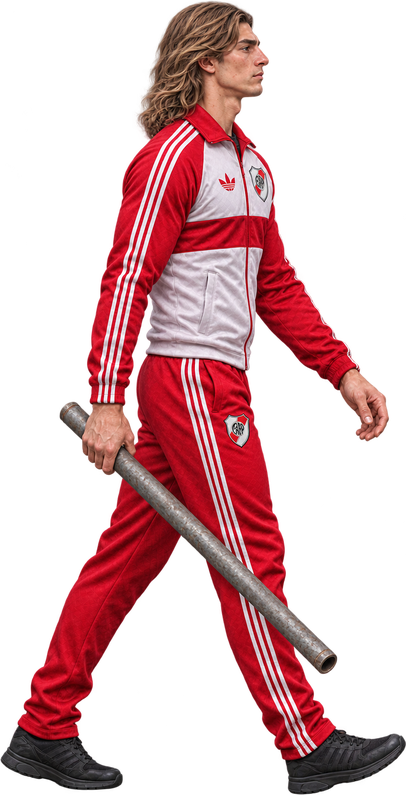
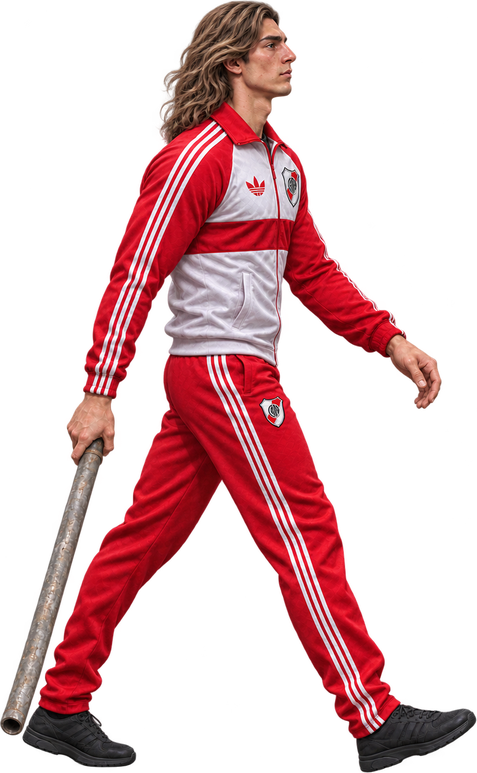
v226: El Tano y EL FLACO — caminata lateral v2 con pie de apoyo fijo, cuadros de extensión (prueba), escala y contacto
- Caminata v2: El Tano derecha+izquierda, EL FLACO derecha (la v2 izquierda del Flaco no pasa: 4 de 6 cuadros miran a la derecha).
- Raíz en el pie: cada cuadro dura lo que el pie apoyado retrocede; el pie no patina.
- Extensión del micrófono (izquierda) y del caño (izq/der) entre anticipación y recuperación del arco lateral.
- Franja de impacto por secuencia y lado; profundidad igual que antes; el PNG no define el área.
- Sus cuadros van a tamaño completo: se excluyen de la compensación de media escala (antes se dibujaban al doble y con los pies bajo la sombra).

Claude-Session: https://claude.ai/code/session_01UBr8iwEGMpDd9N1ggVrmjK

diff --git a/js/sprites_enemigos.js b/js/sprites_enemigos.js
@@ -616,23 +616,24 @@ window.SPRITES_ENEMIGOS.pimpi_jefe = {"frames":{"guardiaDer":{"src":"assets/refe
 // PENDIENTE (no se integra): El Tano arco ascendente (la «recuperación» es una hoja de 15 figuras); EL FLACO ataques a la izquierda (mezclan
 // vistas de frente y perfil); PATOVA arco lateral (la «continuación» está rota) y ascendente (faltan continuación y recuperación) → no ataca;
 // VIKINGO ataques a la izquierda (solo 2 de 4 cuadros). Guardias de frente/espalda: entregadas, el motor todavía no las usa.
-// El Tano (micrófono con pie)
+// El Tano (micrófono con pie) — v226: caminata lateral v2 (derecha e izquierda, 6 cuadros c/u) con PIVOTE EN EL PIE DE APOYO (raiz) y
+// cuadro de extensión hacia la izquierda (ext_izq, PRUEBA). Hacia la izquierda: anticipación y recuperación espejadas (pendientes las propias).
 window.SPRITES_ENEMIGOS.el_tano = {
   frames: {
     guardia: {"src": "assets/enemigos/especiales/barras_river/el_tano/guardia.webp", "mira": "der", "ref": 800, "pie": 801.9, "ancla": 64.7, "otroLado": "guardia_izq"},
     guardia_izq: {"src": "assets/enemigos/especiales/barras_river/el_tano/guardia_izq.webp", "mira": "izq", "ref": 800, "pie": 800.0, "ancla": 143.2},
-    cam_derecha_01: {"src": "assets/enemigos/especiales/barras_river/el_tano/cam_derecha_01.webp", "mira": "der", "ref": 800, "pie": 791.9, "ancla": 145.6},
-    cam_derecha_02: {"src": "assets/enemigos/especiales/barras_river/el_tano/cam_derecha_02.webp", "mira": "der", "ref": 800, "pie": 793.3, "ancla": 174.7},
-    cam_derecha_03: {"src": "assets/enemigos/especiales/barras_river/el_tano/cam_derecha_03.webp", "mira": "der", "ref": 800, "pie": 793.3, "ancla": 111.4},
-    cam_derecha_04: {"src": "assets/enemigos/especiales/barras_river/el_tano/cam_derecha_04.webp", "mira": "der", "ref": 800, "pie": 792.4, "ancla": 144.7},
-    cam_derecha_05: {"src": "assets/enemigos/especiales/barras_river/el_tano/cam_derecha_05.webp", "mira": "der", "ref": 800, "pie": 778.1, "ancla": 176.6},
-    cam_derecha_06: {"src": "assets/enemigos/especiales/barras_river/el_tano/cam_derecha_06.webp", "mira": "der", "ref": 800, "pie": 769.5, "ancla": 166.1},
-    cam_izquierda_01: {"src": "assets/enemigos/especiales/barras_river/el_tano/cam_izquierda_01.webp", "mira": "izq", "ref": 800, "pie": 788.1, "ancla": 209.9},
-    cam_izquierda_02: {"src": "assets/enemigos/especiales/barras_river/el_tano/cam_izquierda_02.webp", "mira": "izq", "ref": 800, "pie": 792.9, "ancla": 157.5},
-    cam_izquierda_03: {"src": "assets/enemigos/especiales/barras_river/el_tano/cam_izquierda_03.webp", "mira": "izq", "ref": 800, "pie": 782.9, "ancla": 172.8},
-    cam_izquierda_04: {"src": "assets/enemigos/especiales/barras_river/el_tano/cam_izquierda_04.webp", "mira": "izq", "ref": 800, "pie": 780.0, "ancla": 217.0},
-    cam_izquierda_05: {"src": "assets/enemigos/especiales/barras_river/el_tano/cam_izquierda_05.webp", "mira": "izq", "ref": 800, "pie": 781.4, "ancla": 181.8},
-    cam_izquierda_06: {"src": "assets/enemigos/especiales/barras_river/el_tano/cam_izquierda_06.webp", "mira": "izq", "ref": 800, "pie": 784.8, "ancla": 159.9},
+    cam_derecha_01: {"src": "assets/enemigos/especiales/barras_river/el_tano/cam_derecha_01.webp", "mira": "der", "ref": 800, "pie": 780.0, "ancla": 176.5},
+    cam_derecha_02: {"src": "assets/enemigos/especiales/barras_river/el_tano/cam_derecha_02.webp", "mira": "der", "ref": 800, "pie": 799.5, "ancla": 169.4},
+    cam_derecha_03: {"src": "assets/enemigos/especiales/barras_river/el_tano/cam_derecha_03.webp", "mira": "der", "ref": 800, "pie": 792.4, "ancla": 152.3},
+    cam_derecha_04: {"src": "assets/enemigos/especiales/barras_river/el_tano/cam_derecha_04.webp", "mira": "der", "ref": 800, "pie": 715.0, "ancla": 240.4},
+    cam_derecha_05: {"src": "assets/enemigos/especiales/barras_river/el_tano/cam_derecha_05.webp", "mira": "der", "ref": 800, "pie": 786.7, "ancla": 188.0},
+    cam_derecha_06: {"src": "assets/enemigos/especiales/barras_river/el_tano/cam_derecha_06.webp", "mira": "der", "ref": 800, "pie": 771.4, "ancla": 107.5},
+    cam_izquierda_01: {"src": "assets/enemigos/especiales/barras_river/el_tano/cam_izquierda_01.webp", "mira": "izq", "ref": 800, "pie": 774.8, "ancla": 200.8},
+    cam_izquierda_02: {"src": "assets/enemigos/especiales/barras_river/el_tano/cam_izquierda_02.webp", "mira": "izq", "ref": 800, "pie": 798.6, "ancla": 181.7},
+    cam_izquierda_03: {"src": "assets/enemigos/especiales/barras_river/el_tano/cam_izquierda_03.webp", "mira": "izq", "ref": 800, "pie": 778.1, "ancla": 160.8},
+    cam_izquierda_04: {"src": "assets/enemigos/especiales/barras_river/el_tano/cam_izquierda_04.webp", "mira": "izq", "ref": 800, "pie": 700.8, "ancla": 258.9},
+    cam_izquierda_05: {"src": "assets/enemigos/especiales/barras_river/el_tano/cam_izquierda_05.webp", "mira": "izq", "ref": 800, "pie": 802.4, "ancla": 187.5},
+    cam_izquierda_06: {"src": "assets/enemigos/especiales/barras_river/el_tano/cam_izquierda_06.webp", "mira": "izq", "ref": 800, "pie": 791.0, "ancla": 196.0},
     cam_frente_01: {"src": "assets/enemigos/especiales/barras_river/el_tano/cam_frente_01.webp", "mira": "frente", "ref": 800, "pie": 798.6, "ancla": 138.0},
     cam_frente_02: {"src": "assets/enemigos/especiales/barras_river/el_tano/cam_frente_02.webp", "mira": "frente", "ref": 800, "pie": 803.8, "ancla": 140.4},
     cam_frente_03: {"src": "assets/enemigos/especiales/barras_river/el_tano/cam_frente_03.webp", "mira": "frente", "ref": 800, "pie": 798.6, "ancla": 136.1},
@@ -653,10 +654,11 @@ window.SPRITES_ENEMIGOS.el_tano = {
     caida: {"src": "assets/enemigos/especiales/barras_river/el_tano/caida.webp", "mira": "der", "ref": 800, "pie": 633.0, "ancla": 195.6},
     levantarse: {"src": "assets/enemigos/especiales/barras_river/el_tano/levantarse.webp", "mira": "frente", "ref": 800, "pie": 715.8, "ancla": 154.7},
     derrota: {"src": "assets/enemigos/especiales/barras_river/el_tano/derrota.webp", "mira": "der", "ref": 913.1, "pie": 287.9, "ancla": 471.6, "acostado": true},
-    lateral_anticipacion: {"src": "assets/enemigos/especiales/barras_river/el_tano/lateral_anticipacion.webp", "mira": "der", "ref": 800, "pie": 798.6, "ancla": 86.6},
-    lateral_efecto: {"src": "assets/enemigos/especiales/barras_river/el_tano/lateral_efecto.webp", "mira": "der", "ref": 800, "pie": 801.4, "ancla": 62.3},
-    lateral_continuacion: {"src": "assets/enemigos/especiales/barras_river/el_tano/lateral_continuacion.webp", "mira": "der", "ref": 800, "pie": 806.7, "ancla": 63.8},
-    lateral_recuperacion: {"src": "assets/enemigos/especiales/barras_river/el_tano/lateral_recuperacion.webp", "mira": "der", "ref": 800, "pie": 794.3, "ancla": 62.3}
+    lateral_anticipacion: {"src": "assets/enemigos/especiales/barras_river/el_tano/lateral_anticipacion.webp", "mira": "der", "ref": 800, "pie": 799.0, "ancla": 74.7},
+    lateral_efecto: {"src": "assets/enemigos/especiales/barras_river/el_tano/lateral_efecto.webp", "mira": "der", "ref": 800, "pie": 801.9, "ancla": 55.4},
+    lateral_continuacion: {"src": "assets/enemigos/especiales/barras_river/el_tano/lateral_continuacion.webp", "mira": "der", "ref": 800, "pie": 807.1, "ancla": 42.1},
+    lateral_recuperacion: {"src": "assets/enemigos/especiales/barras_river/el_tano/lateral_recuperacion.webp", "mira": "der", "ref": 800, "pie": 794.3, "ancla": 54.0},
+    ext_izq: {"src": "assets/enemigos/especiales/barras_river/el_tano/ext_izq.webp", "mira": "izq", "ref": 800, "pie": 647.0, "ancla": 561.2, "prueba": true}
   },
   anim: {
     quieto: 'guardia',
@@ -665,21 +667,27 @@ window.SPRITES_ENEMIGOS.el_tano = {
     bloqueo: { der: 'cubrirse_der', izq: 'cubrirse_izq' },
     dolores: ['recibe_golpe', 'recibe_cuerpo'], desequilibrio: ['tambalear', 'caida'], caida: 'caida',
     suelo: 'derrota', levantarse: 'levantarse', arrodillado: { der: 'levantarse', izq: 'levantarse' }, muerto: 'derrota',
-    secuencias: {"lateral": ["lateral_anticipacion", "lateral_efecto", "lateral_continuacion", "lateral_recuperacion"]}   // ataques con el objeto; el motor elige uno al azar en cada golpe
+    secuencias: {"lateral": {"der": ["lateral_anticipacion", "lateral_efecto", "lateral_continuacion", "lateral_recuperacion"], "izq": ["lateral_anticipacion", "ext_izq", "ext_izq", "lateral_recuperacion"]}}   // {der, izq}: cada lado con sus cuadros; un cuadro que mira al otro lado se espeja
   },
+  // v226 — caminata lateral con raíz en el pie: d = cuánto avanza el cuerpo (px a escala 1) mientras se ve cada cuadro = lo que el pie de
+  // apoyo retrocede respecto del cuerpo entre ese cuadro y el siguiente (medido en los dibujos). Así el pie apoyado no patina.
+  raiz: {"der": {"d": [14.7, 30.6, 113.4, 26.3, 83.7, 31.5], "total": 300.2}, "izq": {"d": [9.9, 17.7, 121.6, 23.7, 87.1, 38.4], "total": 298.4}},
   zancada: 34, zancadaLado: 38
 };
-// EL FLACO (caño de plomería)
+// EL FLACO (caño de plomería) — v226: caminata lateral v2 hacia la DERECHA con pivote en el pie de apoyo (raiz). La v2 hacia la izquierda
+// NO se usa: 4 de sus 6 cuadros (01, 03, 04 y 06) miran a la derecha → sigue la caminata izquierda anterior (pendiente).
+// Estocada con el caño (ext_der / ext_izq, PRUEBA) entre la anticipación y la recuperación del arco lateral. Una sola escala de cuerpo
+// (ref = alto de pie en 800 px) en guardia, caminata y ataque; el lienzo y el caño no cuentan. Anclas de los ataques = entre los pies.
 window.SPRITES_ENEMIGOS.el_flaco = {
   frames: {
     guardia: {"src": "assets/enemigos/especiales/barras_river/el_flaco/guardia.webp", "mira": "der", "ref": 800, "pie": 802.1, "ancla": 70.4, "otroLado": "guardia_izq"},
     guardia_izq: {"src": "assets/enemigos/especiales/barras_river/el_flaco/guardia_izq.webp", "mira": "izq", "ref": 800, "pie": 792.5, "ancla": 196.4},
-    cam_derecha_01: {"src": "assets/enemigos/especiales/barras_river/el_flaco/cam_derecha_01.webp", "mira": "der", "ref": 800, "pie": 791.5, "ancla": 178.8},
-    cam_derecha_02: {"src": "assets/enemigos/especiales/barras_river/el_flaco/cam_derecha_02.webp", "mira": "der", "ref": 800, "pie": 784.5, "ancla": 210.8},
-    cam_derecha_03: {"src": "assets/enemigos/especiales/barras_river/el_flaco/cam_derecha_03.webp", "mira": "der", "ref": 800, "pie": 787.2, "ancla": 153.7},
-    cam_derecha_04: {"src": "assets/enemigos/especiales/barras_river/el_flaco/cam_derecha_04.webp", "mira": "der", "ref": 800, "pie": 793.6, "ancla": 197.5},
-    cam_derecha_05: {"src": "assets/enemigos/especiales/barras_river/el_flaco/cam_derecha_05.webp", "mira": "der", "ref": 800, "pie": 779.7, "ancla": 210.3},
-    cam_derecha_06: {"src": "assets/enemigos/especiales/barras_river/el_flaco/cam_derecha_06.webp", "mira": "der", "ref": 800, "pie": 781.3, "ancla": 220.4},
+    cam_derecha_01: {"src": "assets/enemigos/especiales/barras_river/el_flaco/cam_derecha_01.webp", "mira": "der", "ref": 800, "pie": 774.5, "ancla": 238.2},
+    cam_derecha_02: {"src": "assets/enemigos/especiales/barras_river/el_flaco/cam_derecha_02.webp", "mira": "der", "ref": 800, "pie": 781.9, "ancla": 195.3},
+    cam_derecha_03: {"src": "assets/enemigos/especiales/barras_river/el_flaco/cam_derecha_03.webp", "mira": "der", "ref": 800, "pie": 792.0, "ancla": 139.8},
+    cam_derecha_04: {"src": "assets/enemigos/especiales/barras_river/el_flaco/cam_derecha_04.webp", "mira": "der", "ref": 800, "pie": 772.0, "ancla": 226.1},
+    cam_derecha_05: {"src": "assets/enemigos/especiales/barras_river/el_flaco/cam_derecha_05.webp", "mira": "der", "ref": 800, "pie": 774.9, "ancla": 210.2},
+    cam_derecha_06: {"src": "assets/enemigos/especiales/barras_river/el_flaco/cam_derecha_06.webp", "mira": "der", "ref": 800, "pie": 782.9, "ancla": 133.4},
     cam_izquierda_01: {"src": "assets/enemigos/especiales/barras_river/el_flaco/cam_izquierda_01.webp", "mira": "izq", "ref": 800, "pie": 788.8, "ancla": 243.9},
     cam_izquierda_02: {"src": "assets/enemigos/especiales/barras_river/el_flaco/cam_izquierda_02.webp", "mira": "izq", "ref": 800, "pie": 787.7, "ancla": 239.6},
     cam_izquierda_03: {"src": "assets/enemigos/especiales/barras_river/el_flaco/cam_izquierda_03.webp", "mira": "izq", "ref": 800, "pie": 785.6, "ancla": 212.9},
@@ -705,15 +713,17 @@ window.SPRITES_ENEMIGOS.el_flaco = {
     tambalear: {"src": "assets/enemigos/especiales/barras_river/el_flaco/tambalear.webp", "mira": "der", "ref": 800, "pie": 780.8, "ancla": 235.4},
     caida: {"src": "assets/enemigos/especiales/barras_river/el_flaco/caida.webp", "mira": "der", "ref": 800, "pie": 541.7, "ancla": 333.6},
     levantarse: {"src": "assets/enemigos/especiales/barras_river/el_flaco/levantarse.webp", "mira": "der", "ref": 800, "pie": 707.7, "ancla": 187.3},
-    derrota: {"src": "assets/enemigos/especiales/barras_river/el_flaco/derrota.webp", "mira": "der", "ref": 1061.2, "pie": 307.9, "ancla": 549.2, "acostado": true},
-    lateral_anticipacion: {"src": "assets/enemigos/especiales/barras_river/el_flaco/lateral_anticipacion.webp", "mira": "der", "ref": 800, "pie": 809.6, "ancla": 95.5},
-    lateral_efecto: {"src": "assets/enemigos/especiales/barras_river/el_flaco/lateral_efecto.webp", "mira": "der", "ref": 800, "pie": 803.7, "ancla": 81.1},
-    lateral_continuacion: {"src": "assets/enemigos/especiales/barras_river/el_flaco/lateral_continuacion.webp", "mira": "der", "ref": 800, "pie": 798.4, "ancla": 147.3},
-    lateral_recuperacion: {"src": "assets/enemigos/especiales/barras_river/el_flaco/lateral_recuperacion.webp", "mira": "der", "ref": 800, "pie": 798.4, "ancla": 124.9},
-    ascendente_anticipacion: {"src": "assets/enemigos/especiales/barras_river/el_flaco/ascendente_anticipacion.webp", "mira": "der", "ref": 800, "pie": 804.3, "ancla": 163.8},
-    ascendente_efecto: {"src": "assets/enemigos/especiales/barras_river/el_flaco/ascendente_efecto.webp", "mira": "der", "ref": 800, "pie": 800.0, "ancla": 109.4},
-    ascendente_continuacion: {"src": "assets/enemigos/especiales/barras_river/el_flaco/ascendente_continuacion.webp", "mira": "der", "ref": 800, "pie": 813.9, "ancla": 89.1},
-    ascendente_recuperacion: {"src": "assets/enemigos/especiales/barras_river/el_flaco/ascendente_recuperacion.webp", "mira": "der", "ref": 800, "pie": 804.8, "ancla": 233.8}
+    derrota: {"src": "assets/enemigos/especiales/barras_river/el_flaco/derrota.webp", "mira": "der", "ref": 1055.5, "pie": 307.9, "ancla": 549.2, "acostado": true},
+    lateral_anticipacion: {"src": "assets/enemigos/especiales/barras_river/el_flaco/lateral_anticipacion.webp", "mira": "der", "ref": 800, "pie": 810.1, "ancla": 79.7},
+    lateral_efecto: {"src": "assets/enemigos/especiales/barras_river/el_flaco/lateral_efecto.webp", "mira": "der", "ref": 800, "pie": 804.3, "ancla": 79.7},
+    lateral_continuacion: {"src": "assets/enemigos/especiales/barras_river/el_flaco/lateral_continuacion.webp", "mira": "der", "ref": 800, "pie": 798.9, "ancla": 135.0},
+    lateral_recuperacion: {"src": "assets/enemigos/especiales/barras_river/el_flaco/lateral_recuperacion.webp", "mira": "der", "ref": 800, "pie": 798.9, "ancla": 127.5},
+    ascendente_anticipacion: {"src": "assets/enemigos/especiales/barras_river/el_flaco/ascendente_anticipacion.webp", "mira": "der", "ref": 800, "pie": 804.8, "ancla": 123.5},
+    ascendente_efecto: {"src": "assets/enemigos/especiales/barras_river/el_flaco/ascendente_efecto.webp", "mira": "der", "ref": 800, "pie": 800.5, "ancla": 79.7},
+    ascendente_continuacion: {"src": "assets/enemigos/especiales/barras_river/el_flaco/ascendente_continuacion.webp", "mira": "der", "ref": 800, "pie": 814.4, "ancla": 72.8},
+    ascendente_recuperacion: {"src": "assets/enemigos/especiales/barras_river/el_flaco/ascendente_recuperacion.webp", "mira": "der", "ref": 800, "pie": 805.3, "ancla": 212.9},
+    ext_der: {"src": "assets/enemigos/especiales/barras_river/el_flaco/ext_der.webp", "mira": "der", "ref": 800, "pie": 551.9, "ancla": 231.6, "prueba": true},
+    ext_izq: {"src": "assets/enemigos/especiales/barras_river/el_flaco/ext_izq.webp", "mira": "izq", "ref": 800, "pie": 625.7, "ancla": 664.3, "prueba": true}
   },
   anim: {
     quieto: 'guardia',
@@ -722,8 +732,11 @@ window.SPRITES_ENEMIGOS.el_flaco = {
     bloqueo: { der: 'cubrirse_der', izq: 'cubrirse_izq' },
     dolores: ['recibe_golpe', 'recibe_cuerpo'], desequilibrio: ['tambalear', 'caida'], caida: 'caida',
     suelo: 'derrota', levantarse: 'levantarse', arrodillado: { der: 'levantarse', izq: 'levantarse' }, muerto: 'derrota',
-    secuencias: {"lateral": ["lateral_anticipacion", "lateral_efecto", "lateral_continuacion", "lateral_recuperacion"], "ascendente": ["ascendente_anticipacion", "ascendente_efecto", "ascendente_continuacion", "ascendente_recuperacion"]}   // ataques con el objeto; el motor elige uno al azar en cada golpe
+    secuencias: {"lateral": ["lateral_anticipacion", "lateral_efecto", "lateral_continuacion", "lateral_recuperacion"], "ascendente": ["ascendente_anticipacion", "ascendente_efecto", "ascendente_continuacion", "ascendente_recuperacion"], "estocada": {"der": ["lateral_anticipacion", "ext_der", "ext_der", "lateral_recuperacion"], "izq": ["lateral_anticipacion", "ext_izq", "ext_izq", "lateral_recuperacion"]}}   // {der, izq}: cada lado con sus cuadros; un cuadro que mira al otro lado se espeja
   },
+  // v226 — caminata lateral con raíz en el pie: d = cuánto avanza el cuerpo (px a escala 1) mientras se ve cada cuadro = lo que el pie de
+  // apoyo retrocede respecto del cuerpo entre ese cuadro y el siguiente (medido en los dibujos). Así el pie apoyado no patina.
+  raiz: {"der": {"d": [11.6, 87.1, 50.0, 10.8, 99.6, 44.9], "total": 304.0}},
   zancada: 34, zancadaLado: 38
 };
 // PATOVA (cadena)

diff --git a/js/juego.js b/js/juego.js
@@ -34,6 +34,9 @@
   const VEL_ENEMIGO = 150;
   const PROF_GOLPE = 42;
   const SECUENCIA_ATAQUE = [0.22, 0.45];   // v225: s en 'golpear' hasta pasar de efecto → continuación → recuperación
+  // v226: franja de impacto (px a escala 1 delante del enemigo) de una secuencia, según hacia dónde mira. El tamaño del PNG no interviene.
+  const franjaSecu = (e, t) => { const A = e.luch.def.alcanceSecu && e.luch.def.alcanceSecu[t]; const b = A ? (Array.isArray(A) ? A : A[e.face < 0 ? 'izq' : 'der'] || A.der) : null; return b || e.franja[e.soloGolpe]; };
+  const franjasDe = e => { const SQ = ((window.SPRITES_ENEMIGOS || {})[e.luch.def.id] || {}).anim; return SQ && SQ.secuencias ? Object.keys(SQ.secuencias).map(t => franjaSecu(e, t)) : [e.franja[e.soloGolpe]]; };
   const EXTRA_AVISO_N1_4 = 0.6;          // v195: «!» de los barras en los niveles 1 a 4 = 0,40 + 0,60 = 1,00 s (v71: +2,0 · v193: +1,6)
   const PREP_MAX = 2.0;                  // v193: tope de la preparación visible («!» → golpe) de cualquier enemigo, en s de juego activo
   const FACTOR_CAMINATA_BARRAS = 0.85;   // v193: barras comunes caminan al 85 % (150 → 127,5 px/s). Una sola vez, al crear el enemigo
@@ -95,7 +98,7 @@
      (ref, pie, ancla, cajas) siguen en píxeles del ORIGINAL: anW/anH devuelven el tamaño original equivalente. Sin ese
      archivo (versión local) la escala es 1 y nada cambia. */
   const EA = window.ESCALA_ARTE || null;
-  const escalaArte = src => EA && EA.carpetas.some(c => src.startsWith(c)) ? EA.k : 1;
+  const escalaArte = src => EA && EA.carpetas.some(c => src.startsWith(c)) && !(EA.enteras || []).some(c => src.startsWith(c)) ? EA.k : 1;   // v226: + enteras
   const SUFIJO_ARTE = EA && EA.version ? `?v=${EA.version}` : '';   // versión web: las copias livianas no se confunden con imágenes viejas en caché
   const anW = im => im.naturalWidth / (im._k || 1), anH = im => im.naturalHeight / (im._k || 1);
   const CARGA = { concurrencia: 6, concurrenciaBaja: 2, tiempoMax: 25000, reintentos: 1 };
@@ -1077,7 +1080,7 @@
         e.st = 'golpear'; e.t = 0;
         const alc = alcanceEnemigo(e, e.golpe, e.var) * s * (e.jefe ? 1.1 : 1);   // v83: alcance de la variante (A/B) que se dibuja
         // v34: con franja propia (escobazo) conecta solo si el jugador está donde llega la PAJA, delante de él
-        const fr = e.franja && e.franja[e.golpe], dxF = (p.x - e.x) * e.face;
+        const fr = e.secu ? franjaSecu(e, e.secu) : e.franja && e.franja[e.golpe], dxF = (p.x - e.x) * e.face;   // v226: la del golpe que se está dibujando
         const llega = fr ? dxF >= fr[0] * s && dxF <= fr[1] * s : Math.abs(p.x - e.x) < alc && (p.x - e.x) * e.face > 0;
         // v194: registro de cada ataque (aviso → golpe = contacto: el daño se aplica en este mismo cuadro). Pruebas / diagnóstico.
         registroAtaques.push({ id: e.luch.def.id, aviso: e.prepHechas[e.prepHechas.length - 1], llega: !!(llega && Math.abs(p.y - e.y) < PROF_GOLPE * factorProf(e.y)), dx: Math.round(Math.abs(p.x - e.x) / s), dy: Math.round(Math.abs(p.y - e.y)), t: +tiempo.toFixed(2), golpe: e.golpe, alc: Math.round(alc / s), frente: (p.x - e.x) * e.face > 0 });
@@ -1200,11 +1203,13 @@
     } else
     if (e.soloGolpe) {
       // v34: GORDO ESCOBA — un solo ataque (escobazo). Lo larga cuando el jugador queda dentro de la franja de la paja.
-      const fr = e.franja[e.soloGolpe], dxF = (p.x - e.x) * e.face;
-      if (e.ficha && !e.sinAtaque && p.st !== 'ko' && Math.abs(p.y - e.y) < PROF_GOLPE * factorProf(e.y) && dxF >= (fr[0] + 20) * s && dxF <= (fr[1] - 20) * s && e.enfriar <= 0) {
+      const dxF = (p.x - e.x) * e.face, alguna = franjasDe(e).some(fr => dxF >= (fr[0] + 20) * s && dxF <= (fr[1] - 20) * s);
+      if (e.ficha && !e.sinAtaque && p.st !== 'ko' && Math.abs(p.y - e.y) < PROF_GOLPE * factorProf(e.y) && alguna && e.enfriar <= 0) {
         e.golpe = e.soloGolpe; e.st = 'preparar'; e.t = inicioAviso(e);
         // v225: barras especiales de River — cada ataque es UNA secuencia completa con su objeto (lateral / ascendente), elegida al azar
-        const SQ = ((window.SPRITES_ENEMIGOS || {})[e.luch.def.id] || {}).anim; const tipos = SQ && SQ.secuencias ? Object.keys(SQ.secuencias) : [];
+        const SQ = ((window.SPRITES_ENEMIGOS || {})[e.luch.def.id] || {}).anim;
+        // v226: solo las secuencias cuyo objeto LLEGA a la distancia actual (franja propia por secuencia y lado, js/niveles.js → alcanceSecu)
+        const tipos = SQ && SQ.secuencias ? Object.keys(SQ.secuencias).filter(t => { const b = franjaSecu(e, t); return dxF >= (b[0] + 20) * s && dxF <= (b[1] - 20) * s; }) : [];
         e.secu = tipos.length ? tipos[Math.floor(Math.random() * tipos.length)] : null;
       }
     } else
@@ -1221,6 +1226,7 @@
     andar8(e, e.x - x0, e.y - y0, dt);                         // v192: caminata en 8 direcciones (solo River 1–4)
     vigilarTurno(e, p, s, dt, Math.hypot(e.x - x0, e.y - y0), dd, paso);   // v194: progreso real con el turno tomado
     e.recorrido += Math.hypot(e.x - x0, e.y - y0);            // los pasos avanzan con lo que camina
+    e.avanceLat = (e.avanceLat || 0) + (e.x - x0) * e.face / escalaEn(e.y);   // v226: avance de costado hacia donde mira (px a escala 1; atrás = negativo)
     if (Math.hypot(e.x - x0, e.y - y0) > 0.01) { e.mx = e.x - x0; e.my = e.y - y0;   // hacia dónde camina (para elegir paso de costado / de frente / de espaldas)
       // v92: tramo = distancia desde que ARRANCÓ a caminar (si estuvo más de 0,15 s sin moverse, empieza otro tramo: transición 02 → 03)
       if (e.ultMov == null || tiempo - e.ultMov > 0.15) e.tramo = 0;
@@ -1987,6 +1993,7 @@
     return L[((i + off) % 8 + 8) % 8];
   }
   function poseEnemigo(e, D, A) {
+    e.rmOff = 0;
     const an = { ...D.anim, dolor: D.anim.dolor || D.anim.quieto }, lado = e.face < 0 ? 'izq' : 'der';
     if (an.dolores) an.dolor = an.dolores[(e.nDolor || 0) % an.dolores.length];   // v55: reacción a / b / c según el golpe
     // v55: cayendo = desequilibrio a → b (si existe); si no, la pose de caída de siempre. frac = avance dentro de la caída (0…1)
@@ -2007,7 +2014,7 @@
     if (e.st === 'defensa' && an.bloqueo && protegeEnemigo(e) && bloqueoCargadoEne(A)) return an.bloqueo[lado];   // v24: brazos cruzados mientras protege (al subir/bajar la guardia, la guardia)
     if (e.st === 'dolor' || e.st === 'agarrado') return an.dolor;
     // v225: secuencia de ataque con objeto (anticipación → efecto → continuación → recuperación). El daño entra con el efecto.
-    const sq = an.secuencias && (an.secuencias[e.secu] || Object.values(an.secuencias)[0]);
+    const sq0 = an.secuencias && (an.secuencias[e.secu] || Object.values(an.secuencias)[0]), sq = sq0 && !Array.isArray(sq0) ? sq0[lado] : sq0;   // v226: {der, izq}
     if (sq && e.st === 'preparar') return sq[0];
     if (sq && e.st === 'golpear') return e.t < SECUENCIA_ATAQUE[0] ? sq[1] : e.t < SECUENCIA_ATAQUE[1] ? sq[2] : sq[3];
     if (e.st === 'preparar' && an.preparar && an.preparar[e.golpe]) return an.preparar[e.golpe];   // v32: policía levanta el palo antes del palazo
@@ -2029,6 +2036,14 @@
         if (i < an.caminaEntrada.length) return an.caminaEntrada[i];
         return lista[(i - an.caminaEntrada.length) % lista.length];
       }
+      // v226 — RAÍZ EN EL PIE (El Tano / EL FLACO): cada cuadro dura lo que el pie apoyado retrocede hasta el cuadro siguiente; mientras se ve,
+      // el dibujo queda quieto en el piso (rmOff lo corre hacia atrás lo que ya avanzó la posición lógica) → el pie no patina.
+      const RZ = D.raiz && (lista === an.caminaDer ? D.raiz.der : lista === an.caminaIzq ? D.raiz.izq : null);
+      if (RZ) {
+        const pos = (((e.avanceLat || 0) % RZ.total) + RZ.total) % RZ.total; let i = 0, c = 0;
+        while (i < RZ.d.length - 1 && pos >= c + RZ.d[i]) { c += RZ.d[i]; i++; }
+        e.rmOff = pos - c - RZ.total / (2 * RZ.d.length); e.rmCuadro = i; return lista[i];   // desfase CONSTANTE: entre cuadros el dibujo salta justo d
+      }
       const nom = lista === an.caminaAbajo ? 'caminaAbajo' : lista === an.caminaArriba ? 'caminaArriba' : lista === an.caminaIzq ? 'caminaIzq' : 'caminaDer', ms = msPaso(D, nom);
       if (ms) return lista[Math.floor((e.relojPaso || 0) * 1000 / ms) % lista.length];   // v93: por tiempo (El Gallego de frente)
       return lista[Math.floor(e.recorrido / (z * escalaEn(e.y))) % lista.length];
@@ -2049,6 +2064,7 @@
     const s = escalaEn(e.y), k = ALTO_PERSONAJE * s / m.ref;
     let dx = 0, rot = 0;
     if (e.st === 'preparar') dx = -8 * s * Math.min(1, e.t / 0.15);   // se echa atrás: se ve venir el golpe
+    if (e.rmOff) dx -= e.rmOff * s;                                   // v226: raíz en el pie (caminata de costado)
     if (!A.def.anim.dolor && id === A.def.anim.quieto && (e.st === 'dolor' || e.st === 'agarrado' || (e.st === 'ko' && e.t < KO_ANIM.reaccion)))
       { dx = -8 * s; rot = -0.06; }                                   // v26: golpe recibido provisorio (guardia inclinada, sin redibujar)
     sombra(e, s, alpha, m.acostado ? 150 : 70);

diff --git a/js/niveles.js b/js/niveles.js
@@ -225,9 +225,11 @@
     // medida en el cuadro de efecto hasta la punta del objeto. Cuadros en js/sprites_enemigos.js. PATOVA: sinAtaque hasta que llegue
     // una secuencia de cadena completa (la lateral tiene la «continuación» rota y la ascendente solo 2 de 4 cuadros).
     el_tano:           { id: 'el_tano', tipo: 'barra_river_especial', nombre: 'El Tano', especial: true, sprite: null, mira: 1,
-                         soloGolpe: 'pina', nombreGolpe: 'Golpe de micrófono', alcance: { pina: [40, 150] }, distancia: 115 },
+                         soloGolpe: 'pina', nombreGolpe: 'Golpe de micrófono', alcance: { pina: [40, 150] }, distancia: 115,
+                         alcanceSecu: { lateral: { der: [40, 150], izq: [60, 240] } } },   // v226: hacia la izquierda, el brazo extendido (punta del micrófono ≈ 242)
     el_flaco:          { id: 'el_flaco', tipo: 'barra_river_especial', nombre: 'EL FLACO', especial: true, sprite: null, mira: 1,
-                         soloGolpe: 'pina', nombreGolpe: 'Cañazo', alcance: { pina: [40, 170] }, distancia: 125 },
+                         soloGolpe: 'pina', nombreGolpe: 'Cañazo', alcance: { pina: [40, 170] }, distancia: 125,
+                         alcanceSecu: { lateral: [40, 180], ascendente: [40, 160], estocada: { der: [80, 305], izq: [80, 280] } } },   // v226: punta del caño medida en cada cuadro de impacto
     patova:            { id: 'patova', tipo: 'barra_river_especial', nombre: 'PATOVA', especial: true, sprite: null, mira: 1,
                          soloGolpe: 'pina', nombreGolpe: 'Cadenazo', sinAtaque: true, alcance: { pina: [40, 160] }, distancia: 120 },
     vikingo:           { id: 'vikingo', tipo: 'barra_river_especial', nombre: 'VIKINGO', especial: true, sprite: null, mira: 1,

diff --git a/juego.html b/juego.html
@@ -18,11 +18,11 @@
   <script src="js/identidad.js?v=168"></script>
   <script src="js/reglas_combate.js?v=168"></script>
   <script src="js/combate.js?v=168"></script>
-  <script src="js/niveles.js?v=225"></script>
+  <script src="js/niveles.js?v=226"></script>
   <script src="js/defensa.js?v=168"></script>
   <script src="js/cajas_arte.js?v=168"></script>
   <script src="js/sprites_referentes.js?v=168"></script>
-  <script src="js/sprites_enemigos.js?v=225"></script>
+  <script src="js/sprites_enemigos.js?v=226"></script>
   <script src="js/sprites_clubes.js?v=168"></script>
   <script src="js/atlas_clubes.js?v=224"></script>
   <script src="js/caminatas_river.js?v=193b"></script>
@@ -35,7 +35,7 @@
   <script src="js/damajuana.js?v=168"></script>
   <script src="js/campana.js?v=224"></script>
   <script src="js/perspectiva.js?v=168"></script>
-  <script src="js/escala_arte.js?v=168"></script>
-  <script src="js/juego.js?v=225"></script>
+  <script src="js/escala_arte.js?v=226"></script>
+  <script src="js/juego.js?v=226"></script>
 </body>
 </html>

diff --git a/batalla.html b/batalla.html
@@ -42,7 +42,7 @@
   <script src="js/defensa.js?v=168"></script>
   <script src="js/sprites_referentes.js?v=168"></script>
   <script src="js/sprites_pistola.js?v=168"></script>
-  <script src="js/sprites_enemigos.js?v=225"></script>
+  <script src="js/sprites_enemigos.js?v=226"></script>
   <script src="js/sprites_clubes.js?v=168"></script>
   <script src="js/atlas_clubes.js?v=168"></script>
 <script src="js/sprites_hooligans.js?v=168"></script>
@@ -51,7 +51,7 @@
   <script src="js/musica.js?v=168"></script>
   <script src="js/poder.js?v=168"></script>
   <script src="js/damajuana.js?v=168"></script>
-  <script src="js/escala_arte.js?v=168"></script>
+  <script src="js/escala_arte.js?v=226"></script>
   <script src="js/batalla.js?v=199"></script>
 </body>
 </html>

diff --git a/js/escala_arte.js b/js/escala_arte.js
@@ -1,2 +1,4 @@
 /* v79 — versión web: los sprites de estas carpetas están achicados a la mitad. js/juego.js compensa (las coordenadas siguen en px del original). */
-window.ESCALA_ARTE = { version: 168, k: 0.5, carpetas: ['assets/referentes/', 'assets/enemigos/', 'assets/objetos/'] };
+window.ESCALA_ARTE = { version: 168, k: 0.5, carpetas: ['assets/referentes/', 'assets/enemigos/', 'assets/objetos/'],
+  // v226: cuadros que viajan a TAMAÑO COMPLETO (sus coordenadas están en px del archivo): no se compensan. El Tano y EL FLACO.
+  enteras: ['assets/enemigos/especiales/barras_river/el_tano/', 'assets/enemigos/especiales/barras_river/el_flaco/'] };
